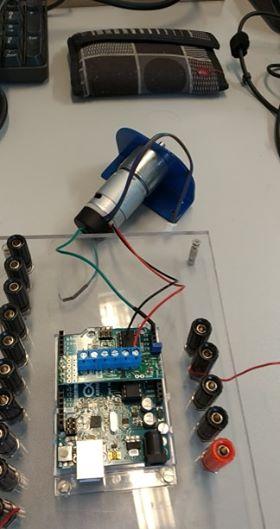
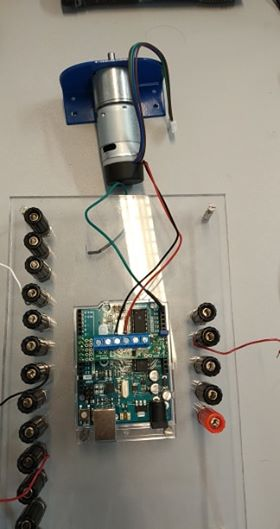
write assembly driver motor.md

diff --git a/procedures/assembly/assembly motor driver/assembly driver motor.md b/procedures/assembly/assembly motor driver/assembly driver motor.md
@@ -15,11 +15,12 @@
 
 ## 2) Process
 - The motor driver must be plugged into the Arduino.
-- On one of the sides, we can see [10 9 8 7 6] and on the opposite side, we can see [VCC GND AVIN].
+- On one of the sides, we can see *[10 9 8 7 6]* and on the opposite side, we can see *[VCC GND AVIN]*.
 - And on the Arduino, we can see the pins [10 9 8 7 6 ].
-- Plug the side with the pins [10 9 8 7 6] of the motor driver on the same pins of the Arduino.
+- Plug the side with the pins *[10 9 8 7 6]* of the motor driver on the same pins of the Arduino.
 <span style="color:red">**Check the opposite side.**</span>
-- 
+- Now we have to plug the red and black wires in the driver motor in the pins *[M1A M1B]*.
 
 ## 3) Result
-<img src="./final.jpg" width="200px" height="200px" />
+this how is the final assembly<br />
+<img src="./final.jpg" />
